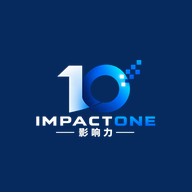
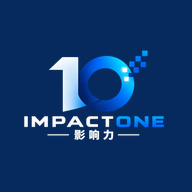
Add files via upload

Changed region(s): [[0.125, 0.25, 0.875, 0.75]]

diff --git a/daily/2026-08-19.html b/daily/2026-08-19.html
@@ -1,13 +1,13 @@
 <!doctype html><html lang="zh-CN"><head><meta charset="utf-8"><meta name="viewport" content="width=device-width,initial-scale=1"><title>影响力·每日必读｜2026年9月1日｜IMPACTONE</title><meta name="description" content="影响力·每日必读。筛选全球资讯，把握天下大势。每天5分钟，看懂真正重要的变化。"><link rel="canonical" href="https://www.impactone.news/daily/2026-08-19.html"><meta property="og:type" content="article"><meta property="og:site_name" content="IMPACTONE"><meta property="og:title" content="影响力·每日必读｜2026年9月1日"><meta property="og:description" content="筛选全球资讯，把握天下大势。每天5分钟，看懂真正重要的变化。"><meta property="og:url" content="https://www.impactone.news/daily/2026-08-19.html"><meta property="og:image" content="https://www.impactone.news/images/daily/2026-08-19-share.png"><meta property="og:image:secure_url" content="https://www.impactone.news/images/daily/2026-08-19-share.png"><meta property="og:image:type" content="image/png"><meta property="og:image:alt" content="影响力·每日必读｜2026年9月1日"><meta property="og:image:width" content="1200"><meta property="og:image:height" content="630"><meta name="twitter:card" content="summary_large_image"><meta name="twitter:title" content="影响力·每日必读｜2026年9月1日"><meta name="twitter:description" content="筛选全球资讯，把握天下大势。每天5分钟，看懂真正重要的变化。"><meta name="twitter:image" content="https://www.impactone.news/images/daily/2026-08-19-share.png"><link rel="manifest" href="../manifest.webmanifest"><meta name="theme-color" content="#062A5E"><meta name="apple-mobile-web-app-capable" content="yes"><meta name="apple-mobile-web-app-status-bar-style" content="default"><meta name="apple-mobile-web-app-title" content="每日必读"><link rel="apple-touch-icon" href="../images/brand/impactone-icon-192.png"><link rel="stylesheet" href="../daily-publication.css"><script src="../impactone-config.js" defer></script><script src="../daily-interactions.js" defer></script></head><body><main class="page"><div class="content">
-<header class="brand-block"><img class="header-impactone-logo" src="../images/brand/impactone-logo-original.png" alt="IMPACTONE 影响力"><h1 class="brand-title">影响力·每日必读</h1><p class="brand-subtitle">筛选全球资讯，把握天下大势。</p><div class="issue-date">2026年9月1日　纽约　第001期</div><div class="skyline skyline-original" aria-hidden="true"><img src="../images/daily/impactone-nyc-skyline-original.png" alt=""></div></header>
+<header class="brand-block"><div class="header-impactone-wordmark">IMPACTONE</div><h1 class="brand-title">影响力·每日必读</h1><p class="brand-subtitle">筛选全球资讯，把握天下大势。</p><div class="issue-date">2026年9月1日　纽约　第001期</div><div class="skyline skyline-original" aria-hidden="true"><img src="../images/daily/impactone-nyc-skyline-original.png" alt=""></div></header>
 <div class="font-tool" aria-label="字号设置">字号 <button data-font="small">小</button><button class="active" data-font="medium">中</button><button data-font="large">大</button></div>
-<section><header class="section-title"><span class="section-icon target"></span><h2>今日焦点 <span class="section-en">DAILY FOCUS</span></h2><div class="section-sub">4件事，看懂今天最重要的变化</div></header><article class="story"><div class="story-number">01｜</div><h3>美伊冲突伊朗，国际油价大涨</h3><p>9月1日，美军对伊朗目标发动新一轮打击；国际油价8月31日在美伊冲突进一步升级后大幅上涨。与此同时，美国8月就业与通胀数据继续成为市场关注重点，全球风险资产波动加大。</p><figure><img src="../images/daily/sample-oil-hd.jpg" alt="夕阳下的石油抽油机"/><figcaption>纽约本地媒体拍摄的石油设施（资料图）</figcaption></figure><p class="analysis"><span class="label">观察｜</span><br>如果这类冲突开始显著影响能源运输和企业成本，保险公司的定价逻辑可能需要重新评估——真正被改写的或许并不是短期油价，而是能源供应链本身的可控性。</p></article><article class="story"><div class="story-number">02｜</div><h3>美国国债收益率进一步走高，国债规模已突破40万亿美元</h3><p>美国10年期国债收益率9月1日盘中继续走高。与此同时，美国联邦债务规模继续处于历史高位，长期利率和财政可持续性再次成为市场讨论焦点。</p><p class="analysis"><span class="label">观察｜</span><br>40万亿美元的国债规模本身可能正在成为影响市场资本价格的结构性变量——不只是利率周期问题，也可能是期限溢价和风险定价问题。</p></article><article class="story"><div class="story-number">03｜</div><h3>中国8月官方PMI明升但仍处收缩区间，企业规模分化明显</h3><p>8月官方制造业PMI为49.8%，环比上月小幅改善，但仍低于50的荣枯线；大型企业PMI高于50，中小企业仍承压，市场对后续政策支持保持关注。</p><p class="analysis"><span class="label">观察｜</span><br>大企业已经回到扩张区间，中型企业仍在收缩——这种分化本身，可能比PMI总量数字更值得企业持续观察。</p></article></section>
+<section><header class="section-title"><span class="section-icon target"></span><h2>今日焦点 <span class="section-en">DAILY FOCUS</span></h2><div class="section-sub">4件事，看懂今天最重要的变化</div></header><article class="story"><div class="story-number">01｜</div><h3>美伊冲突伊朗，国际油价大涨</h3><p>9月1日，美军对伊朗目标发动新一轮打击；国际油价8月31日在美伊冲突进一步升级后大幅上涨。与此同时，美国8月就业与通胀数据继续成为市场关注重点，全球风险资产波动加大。</p><figure><img src="../images/daily/sample-oil-clear.png" alt="夕阳下的石油抽油机"/><figcaption>纽约本地媒体拍摄的石油设施（资料图）</figcaption></figure><p class="analysis"><span class="label">观察｜</span><br>如果这类冲突开始显著影响能源运输和企业成本，保险公司的定价逻辑可能需要重新评估——真正被改写的或许并不是短期油价，而是能源供应链本身的可控性。</p></article><article class="story"><div class="story-number">02｜</div><h3>美国国债收益率进一步走高，国债规模已突破40万亿美元</h3><p>美国10年期国债收益率9月1日盘中继续走高。与此同时，美国联邦债务规模继续处于历史高位，长期利率和财政可持续性再次成为市场讨论焦点。</p><p class="analysis"><span class="label">观察｜</span><br>40万亿美元的国债规模本身可能正在成为影响市场资本价格的结构性变量——不只是利率周期问题，也可能是期限溢价和风险定价问题。</p></article><article class="story"><div class="story-number">03｜</div><h3>中国8月官方PMI明升但仍处收缩区间，企业规模分化明显</h3><p>8月官方制造业PMI为49.8%，环比上月小幅改善，但仍低于50的荣枯线；大型企业PMI高于50，中小企业仍承压，市场对后续政策支持保持关注。</p><p class="analysis"><span class="label">观察｜</span><br>大企业已经回到扩张区间，中型企业仍在收缩——这种分化本身，可能比PMI总量数字更值得企业持续观察。</p></article></section>
 <section><header class="section-title"><span class="section-icon search"></span><h2>今日扫描 <span class="section-en">DAILY SCAN</span></h2><div class="section-sub">6个值得关注的信号</div></header><article class="scan-item"><div class="scan-number">05｜</div><h3>FTC联合22州起诉亚马逊，指控操纵广告拍卖</h3><details class="scan-details"><summary><span class="closed-label">展开正文 ＋</span><span class="open-label">收起正文 －</span></summary><div class="scan-body"><p>联邦贸易委员会及22个州近日联合起诉亚马逊，指控其通过广告拍卖和平台规则影响商家成本。</p></div></details><p class="scan-quick"><span class="label">快评｜</span><br>审查逻辑一旦从“亚马逊多收了钱”转向“拍卖机制本身是否被操纵”，所有采用类似定价机制的平台都可能被拖下水。</p></article><article class="scan-item"><div class="scan-number">06｜</div><h3>美国科技平台监管继续升级</h3><details class="scan-details"><summary><span class="closed-label">展开正文 ＋</span><span class="open-label">收起正文 －</span></summary><div class="scan-body"><p>美国监管机构继续扩大对大型科技平台广告、数据与市场竞争行为的审查，平台商业模式面临更高合规成本。</p></div></details><p class="scan-quick"><span class="label">快评｜</span><br>监管的重点正在从单一行为转向平台规则本身，商业模式的合规成本可能长期上升。</p></article><article class="scan-item"><div class="scan-number">07｜</div><h3>全球平台广告定价机制受到更多关注</h3><details class="scan-details"><summary><span class="closed-label">展开正文 ＋</span><span class="open-label">收起正文 －</span></summary><div class="scan-body"><p>围绕数字广告拍卖透明度、平台自营业务与商家权益的讨论继续升温，监管部门正在评估更严格的规则。</p></div></details><p class="scan-quick"><span class="label">快评｜</span><br>一旦监管开始触及“平台如何决定价格”，平台经济的利润结构可能发生变化。</p></article></section>
 <section><header class="view-section-title"><span class="view-cn">今日洞见</span><span class="view-en">IMPACTONE VIEW</span></header><div class="daily-view"><h2 class="view-title">风险正在被重新定价</h2><p>霍尔木兹海峡、美债收益率、港口拥堵与旧金山楼市，表面分属能源、金融、供应链与资产市场，背后却呈现出同一趋势：过去容易被忽略的隐性成本，正在进入价格体系。</p><p>航运风险可能进入保险与运费，美债规模可能通过收益率传导至融资成本，港口延误最终体现为库存与交付成本。</p><p class="view-final">值得关注的并非价格本身的上涨，而是风险、时间与预期正在被重新定价。</p></div></section>
 <div class="product-value"><strong>每天5分钟，读懂12条全球大事，看清变化背后的趋势。</strong><span>《影响力·每日必读》每日更新 · 订阅持续获取</span></div>
-<footer class="publication-footer"><div class="footer-brands"><div class="footer-brand"><img class="footer-logo impactone-logo" src="../images/brand/impactone-logo.png" alt="IMPACTONE 影响力 Logo"><b>出品｜IMPACTONE</b></div><div class="foundation"><img class="footer-logo faef-logo" src="../images/brand/faef-logo.png" alt="五大道企业家基金会 FAEF Logo"><b>协办｜五大道企业家基金会</b></div></div><div class="share-line">把值得关注的事，转给值得的人。</div><div class="footer-info"><b>联络交流</b><span>内容建议｜采访线索｜品牌合作｜战略合作</span><a href="mailto:impactoneus@gmail.com">impactoneus@gmail.com</a><div class="social-profiles" id="socialProfiles" aria-label="IMPACTONE 社交媒体"></div></div><div class="legal"><b>免责声明</b><p>本刊由 IMPACTONE 独立策划、制作与运营。内容基于公开信息整理与分析，文中“观察”“快评”及“今日洞见”为 IMPACTONE 编辑观点，仅供参考，不构成投资、法律或财务建议。</p><b>版权声明</b><p>© 2026 IMPACTONE. All Rights Reserved. 本刊原创编辑内容及版式设计版权归 IMPACTONE 所有。未经授权，不得复制、汇编、转载或用于商业用途；欢迎个人完整转发分享，并请保留 IMPACTONE 标识及来源信息。</p></div></footer>
+<footer class="publication-footer"><div class="footer-brands"><div class="footer-brand"><img class="footer-logo impactone-logo" src="../images/brand/impactone-logo-official.png" alt="IMPACTONE 影响力 Logo"><b>出品｜IMPACTONE</b></div><div class="foundation"><img class="footer-logo faef-logo" src="../images/brand/faef-logo.png" alt="五大道企业家基金会 FAEF Logo"><b>协办｜五大道企业家基金会</b></div></div><div class="share-line">把值得关注的事，转给值得的人。</div><div class="footer-info"><b>联络交流</b><span>内容建议｜采访线索｜品牌合作｜战略合作</span><a href="mailto:impactoneus@gmail.com">impactoneus@gmail.com</a><div class="social-profiles" id="socialProfiles" aria-label="IMPACTONE 社交媒体"></div></div><div class="legal"><b>免责声明</b><p>本刊由 IMPACTONE 独立策划、制作与运营。内容基于公开信息整理与分析，文中“观察”“快评”及“今日洞见”为 IMPACTONE 编辑观点，仅供参考，不构成投资、法律或财务建议。</p><b>版权声明</b><p>© 2026 IMPACTONE. All Rights Reserved. 本刊原创编辑内容及版式设计版权归 IMPACTONE 所有。未经授权，不得复制、汇编、转载或用于商业用途；欢迎个人完整转发分享，并请保留 IMPACTONE 标识及来源信息。</p></div></footer>
 </div></main>
-<nav class="fixed-actions" aria-label="互动功能"><button id="subscribeAction"><span class="ico">＋</span><span>订阅</span></button><button id="shareAction"><span class="ico"><svg viewBox="0 0 24 24"><path d="M7 17c0-5 3-8 9-8h2"></path><path d="m14 5 4 4-4 4"></path></svg></span><span>转发</span></button><button id="favoriteAction"><span class="ico"><svg viewBox="0 0 24 24"><path d="M20.8 4.6a5.5 5.5 0 0 0-7.8 0L12 5.7l-1.1-1.1a5.5 5.5 0 0 0-7.8 7.8L12 21l8.8-8.6a5.5 5.5 0 0 0 0-7.8Z"></path></svg></span><span>收藏</span></button><button id="commentAction"><span class="ico">□</span><span>评论</span><small id="commentCount"></small></button></nav>
+<div class="notification-optin" id="notificationOptin" hidden><div><strong>接收《每日必读》更新通知</strong><span>新一期发布时，由 IMPACTONE 提醒你。</span></div><button type="button" id="enableNotificationButton">开启</button><button type="button" class="notification-optin-close" id="dismissNotificationButton" aria-label="稍后">×</button></div><nav class="fixed-actions" aria-label="互动功能"><button id="subscribeAction"><span class="ico">＋</span><span>订阅</span></button><button id="shareAction"><span class="ico"><svg viewBox="0 0 24 24"><path d="M7 17c0-5 3-8 9-8h2"></path><path d="m14 5 4 4-4 4"></path></svg></span><span>转发</span></button><button id="favoriteAction"><span class="ico"><svg viewBox="0 0 24 24"><path d="M20.8 4.6a5.5 5.5 0 0 0-7.8 0L12 5.7l-1.1-1.1a5.5 5.5 0 0 0-7.8 7.8L12 21l8.8-8.6a5.5 5.5 0 0 0 0-7.8Z"></path></svg></span><span>收藏</span></button><button id="commentAction"><span class="ico">□</span><span>评论</span><small id="commentCount"></small></button></nav>
 <div class="modal-backdrop" id="shareModal" aria-hidden="true"><section class="share-modal"><button class="modal-close" data-close-share>×</button><h3>转发《影响力·每日必读》</h3><p>选择你常用的平台。微信与“更多”使用手机系统分享；其它平台尽量直接进入对应分享/发布流程。</p><div class="share-grid share-grid-v311"><button type="button" data-share="wechat">微信</button><a data-share-link="whatsapp" target="_blank" rel="noopener">WhatsApp</a><button type="button" data-share="instagram">Instagram 发布</button><button type="button" data-share="facebook-native">Facebook</button><a data-share-link="linkedin" target="_blank" rel="noopener">LinkedIn</a><button type="button" data-share="xiaohongshu">小红书发布</button><button type="button" data-share="copy">复制链接</button><button type="button" data-share="system">更多</button></div><div class="wechat-share-hint" id="wechatShareHint" aria-live="polite"></div></section></div>
 <div class="modal-backdrop" id="subscribeModal" aria-hidden="true"><section class="subscribe-modal subscribe-modal-v313"><button class="modal-close" data-close-subscribe>×</button><h3>订阅《影响力·每日必读》</h3><p>先把 IMPACTONE 添加到手机桌面；安装后允许通知，即可在《每日必读》更新时收到提醒。</p><button type="button" class="install-primary" id="installAppButton">＋ 添加到手机桌面</button><div class="install-help" id="installHelp" aria-live="polite"></div><div class="install-platform-guide" aria-label="iPhone 与 Android 安装方法"><div class="install-platform-card"><strong>iPhone / iPad</strong><span>Safari → 分享 → 添加到主屏幕 → 添加。随后从桌面打开 IMPACTONE，点“订阅”允许通知。</span></div><div class="install-platform-card"><strong>Android</strong><span>Chrome → 右上角 ⋮ → 添加到主屏幕 / 安装应用 → 安装。安装后按系统提示允许通知。</span></div></div><a class="install-guide-link" href="/docs/impactone-add-to-home-screen-guide.pdf" target="_blank" rel="noopener">查看图文安装说明（iPhone + Android）</a><button type="button" class="email-backup-toggle" data-toggle-email>邮件订阅（备用）</button><form id="subscribeForm" class="email-subscribe-form" hidden><input id="subscribeEmail" type="email" placeholder="你的邮箱" required><button type="submit">邮件订阅</button></form><div id="subscribeStatus" class="subscribe-status"></div></section></div>
 <section class="comments-panel" id="commentsPanel" aria-hidden="true"><button class="panel-close" data-close-comments>×</button><h3 class="panel-head">评论</h3><p class="comment-prompt">你今天最关注哪一条？</p><form id="commentForm"><input id="commentName" placeholder="昵称" required><textarea id="commentText" placeholder="写下你的看法……" required></textarea><button type="submit">发布</button></form><div id="commentList"></div></section>

diff --git a/daily-template.html b/daily-template.html
@@ -1,13 +1,13 @@
 <!doctype html><html lang="zh-CN"><head><meta charset="utf-8"><meta name="viewport" content="width=device-width,initial-scale=1"><meta property="og:type" content="article"><meta property="og:site_name" content="IMPACTONE"><meta property="og:title" content="影响力·每日必读"><meta property="og:description" content="筛选全球资讯，把握天下大势。每天5分钟，看懂真正重要的变化。"><meta property="og:image" content="https://www.impactone.news/images/daily/2026-08-19-share.png"><meta property="og:image:secure_url" content="https://www.impactone.news/images/daily/2026-08-19-share.png"><meta property="og:image:type" content="image/png"><meta property="og:image:alt" content="影响力·每日必读｜2026年9月1日"><meta name="twitter:card" content="summary_large_image"><title>影响力·每日必读｜IMPACTONE</title><meta name="description" content="影响力·每日必读。筛选全球资讯，把握天下大势。"><link rel="manifest" href="manifest.webmanifest"><meta name="theme-color" content="#062A5E"><meta name="apple-mobile-web-app-capable" content="yes"><meta name="apple-mobile-web-app-status-bar-style" content="default"><meta name="apple-mobile-web-app-title" content="每日必读"><link rel="apple-touch-icon" href="images/brand/impactone-icon-192.png"><link rel="stylesheet" href="daily-publication.css"><script src="impactone-config.js" defer></script><script src="daily-interactions.js" defer></script></head><body><main class="page"><div class="content">
-<header class="brand-block"><img class="header-impactone-logo" src="images/brand/impactone-logo-original.png" alt="IMPACTONE 影响力"><h1 class="brand-title">影响力·每日必读</h1><p class="brand-subtitle">筛选全球资讯，把握天下大势。</p><div class="issue-date">2026年9月1日　纽约　第001期</div><div class="skyline skyline-original" aria-hidden="true"><img src="images/daily/impactone-nyc-skyline-original.png" alt=""></div></header>
+<header class="brand-block"><div class="header-impactone-wordmark">IMPACTONE</div><h1 class="brand-title">影响力·每日必读</h1><p class="brand-subtitle">筛选全球资讯，把握天下大势。</p><div class="issue-date">2026年9月1日　纽约　第001期</div><div class="skyline skyline-original" aria-hidden="true"><img src="images/daily/impactone-nyc-skyline-original.png" alt=""></div></header>
 <div class="font-tool" aria-label="字号设置">字号 <button data-font="small">小</button><button class="active" data-font="medium">中</button><button data-font="large">大</button></div>
-<section><header class="section-title"><span class="section-icon target"></span><h2>今日焦点 <span class="section-en">DAILY FOCUS</span></h2><div class="section-sub">4件事，看懂今天最重要的变化</div></header><article class="story"><div class="story-number">01｜</div><h3>美伊冲突伊朗，国际油价大涨</h3><p>9月1日，美军对伊朗目标发动新一轮打击；国际油价8月31日在美伊冲突进一步升级后大幅上涨。与此同时，美国8月就业与通胀数据继续成为市场关注重点，全球风险资产波动加大。</p><figure><img src="images/daily/sample-oil-hd.jpg" alt="夕阳下的石油抽油机"/><figcaption>纽约本地媒体拍摄的石油设施（资料图）</figcaption></figure><p class="analysis"><span class="label">观察｜</span><br>如果这类冲突开始显著影响能源运输和企业成本，保险公司的定价逻辑可能需要重新评估——真正被改写的或许并不是短期油价，而是能源供应链本身的可控性。</p></article><article class="story"><div class="story-number">02｜</div><h3>美国国债收益率进一步走高，国债规模已突破40万亿美元</h3><p>美国10年期国债收益率9月1日盘中继续走高。与此同时，美国联邦债务规模继续处于历史高位，长期利率和财政可持续性再次成为市场讨论焦点。</p><p class="analysis"><span class="label">观察｜</span><br>40万亿美元的国债规模本身可能正在成为影响市场资本价格的结构性变量——不只是利率周期问题，也可能是期限溢价和风险定价问题。</p></article><article class="story"><div class="story-number">03｜</div><h3>中国8月官方PMI明升但仍处收缩区间，企业规模分化明显</h3><p>8月官方制造业PMI为49.8%，环比上月小幅改善，但仍低于50的荣枯线；大型企业PMI高于50，中小企业仍承压，市场对后续政策支持保持关注。</p><p class="analysis"><span class="label">观察｜</span><br>大企业已经回到扩张区间，中型企业仍在收缩——这种分化本身，可能比PMI总量数字更值得企业持续观察。</p></article></section>
+<section><header class="section-title"><span class="section-icon target"></span><h2>今日焦点 <span class="section-en">DAILY FOCUS</span></h2><div class="section-sub">4件事，看懂今天最重要的变化</div></header><article class="story"><div class="story-number">01｜</div><h3>美伊冲突伊朗，国际油价大涨</h3><p>9月1日，美军对伊朗目标发动新一轮打击；国际油价8月31日在美伊冲突进一步升级后大幅上涨。与此同时，美国8月就业与通胀数据继续成为市场关注重点，全球风险资产波动加大。</p><figure><img src="images/daily/sample-oil-clear.png" alt="夕阳下的石油抽油机"/><figcaption>纽约本地媒体拍摄的石油设施（资料图）</figcaption></figure><p class="analysis"><span class="label">观察｜</span><br>如果这类冲突开始显著影响能源运输和企业成本，保险公司的定价逻辑可能需要重新评估——真正被改写的或许并不是短期油价，而是能源供应链本身的可控性。</p></article><article class="story"><div class="story-number">02｜</div><h3>美国国债收益率进一步走高，国债规模已突破40万亿美元</h3><p>美国10年期国债收益率9月1日盘中继续走高。与此同时，美国联邦债务规模继续处于历史高位，长期利率和财政可持续性再次成为市场讨论焦点。</p><p class="analysis"><span class="label">观察｜</span><br>40万亿美元的国债规模本身可能正在成为影响市场资本价格的结构性变量——不只是利率周期问题，也可能是期限溢价和风险定价问题。</p></article><article class="story"><div class="story-number">03｜</div><h3>中国8月官方PMI明升但仍处收缩区间，企业规模分化明显</h3><p>8月官方制造业PMI为49.8%，环比上月小幅改善，但仍低于50的荣枯线；大型企业PMI高于50，中小企业仍承压，市场对后续政策支持保持关注。</p><p class="analysis"><span class="label">观察｜</span><br>大企业已经回到扩张区间，中型企业仍在收缩——这种分化本身，可能比PMI总量数字更值得企业持续观察。</p></article></section>
 <section><header class="section-title"><span class="section-icon search"></span><h2>今日扫描 <span class="section-en">DAILY SCAN</span></h2><div class="section-sub">6个值得关注的信号</div></header><article class="scan-item"><div class="scan-number">05｜</div><h3>FTC联合22州起诉亚马逊，指控操纵广告拍卖</h3><details class="scan-details"><summary><span class="closed-label">展开正文 ＋</span><span class="open-label">收起正文 －</span></summary><div class="scan-body"><p>联邦贸易委员会及22个州近日联合起诉亚马逊，指控其通过广告拍卖和平台规则影响商家成本。</p></div></details><p class="scan-quick"><span class="label">快评｜</span><br>审查逻辑一旦从“亚马逊多收了钱”转向“拍卖机制本身是否被操纵”，所有采用类似定价机制的平台都可能被拖下水。</p></article><article class="scan-item"><div class="scan-number">06｜</div><h3>美国科技平台监管继续升级</h3><details class="scan-details"><summary><span class="closed-label">展开正文 ＋</span><span class="open-label">收起正文 －</span></summary><div class="scan-body"><p>美国监管机构继续扩大对大型科技平台广告、数据与市场竞争行为的审查，平台商业模式面临更高合规成本。</p></div></details><p class="scan-quick"><span class="label">快评｜</span><br>监管的重点正在从单一行为转向平台规则本身，商业模式的合规成本可能长期上升。</p></article><article class="scan-item"><div class="scan-number">07｜</div><h3>全球平台广告定价机制受到更多关注</h3><details class="scan-details"><summary><span class="closed-label">展开正文 ＋</span><span class="open-label">收起正文 －</span></summary><div class="scan-body"><p>围绕数字广告拍卖透明度、平台自营业务与商家权益的讨论继续升温，监管部门正在评估更严格的规则。</p></div></details><p class="scan-quick"><span class="label">快评｜</span><br>一旦监管开始触及“平台如何决定价格”，平台经济的利润结构可能发生变化。</p></article></section>
 <section><header class="view-section-title"><span class="view-cn">今日洞见</span><span class="view-en">IMPACTONE VIEW</span></header><div class="daily-view"><h2 class="view-title">风险正在被重新定价</h2><p>霍尔木兹海峡、美债收益率、港口拥堵与旧金山楼市，表面分属能源、金融、供应链与资产市场，背后却呈现出同一趋势：过去容易被忽略的隐性成本，正在进入价格体系。</p><p>航运风险可能进入保险与运费，美债规模可能通过收益率传导至融资成本，港口延误最终体现为库存与交付成本。</p><p class="view-final">值得关注的并非价格本身的上涨，而是风险、时间与预期正在被重新定价。</p></div></section>
 <div class="product-value"><strong>每天5分钟，读懂12条全球大事，看清变化背后的趋势。</strong><span>《影响力·每日必读》每日更新 · 订阅持续获取</span></div>
-<footer class="publication-footer"><div class="footer-brands"><div class="footer-brand"><img class="footer-logo impactone-logo" src="images/brand/impactone-logo.png" alt="IMPACTONE 影响力 Logo"><b>出品｜IMPACTONE</b></div><div class="foundation"><img class="footer-logo faef-logo" src="images/brand/faef-logo.png" alt="五大道企业家基金会 FAEF Logo"><b>协办｜五大道企业家基金会</b></div></div><div class="share-line">把值得关注的事，转给值得的人。</div><div class="footer-info"><b>联络交流</b><span>内容建议｜采访线索｜品牌合作｜战略合作</span><a href="mailto:impactoneus@gmail.com">impactoneus@gmail.com</a><div class="social-profiles" id="socialProfiles" aria-label="IMPACTONE 社交媒体"></div></div><div class="legal"><b>免责声明</b><p>本刊由 IMPACTONE 独立策划、制作与运营。内容基于公开信息整理与分析，文中“观察”“快评”及“今日洞见”为 IMPACTONE 编辑观点，仅供参考，不构成投资、法律或财务建议。</p><b>版权声明</b><p>© 2026 IMPACTONE. All Rights Reserved. 本刊原创编辑内容及版式设计版权归 IMPACTONE 所有。未经授权，不得复制、汇编、转载或用于商业用途；欢迎个人完整转发分享，并请保留 IMPACTONE 标识及来源信息。</p></div></footer>
+<footer class="publication-footer"><div class="footer-brands"><div class="footer-brand"><img class="footer-logo impactone-logo" src="images/brand/impactone-logo-official.png" alt="IMPACTONE 影响力 Logo"><b>出品｜IMPACTONE</b></div><div class="foundation"><img class="footer-logo faef-logo" src="images/brand/faef-logo.png" alt="五大道企业家基金会 FAEF Logo"><b>协办｜五大道企业家基金会</b></div></div><div class="share-line">把值得关注的事，转给值得的人。</div><div class="footer-info"><b>联络交流</b><span>内容建议｜采访线索｜品牌合作｜战略合作</span><a href="mailto:impactoneus@gmail.com">impactoneus@gmail.com</a><div class="social-profiles" id="socialProfiles" aria-label="IMPACTONE 社交媒体"></div></div><div class="legal"><b>免责声明</b><p>本刊由 IMPACTONE 独立策划、制作与运营。内容基于公开信息整理与分析，文中“观察”“快评”及“今日洞见”为 IMPACTONE 编辑观点，仅供参考，不构成投资、法律或财务建议。</p><b>版权声明</b><p>© 2026 IMPACTONE. All Rights Reserved. 本刊原创编辑内容及版式设计版权归 IMPACTONE 所有。未经授权，不得复制、汇编、转载或用于商业用途；欢迎个人完整转发分享，并请保留 IMPACTONE 标识及来源信息。</p></div></footer>
 </div></main>
-<nav class="fixed-actions" aria-label="互动功能"><button id="subscribeAction"><span class="ico">＋</span><span>订阅</span></button><button id="shareAction"><span class="ico"><svg viewBox="0 0 24 24"><path d="M7 17c0-5 3-8 9-8h2"></path><path d="m14 5 4 4-4 4"></path></svg></span><span>转发</span></button><button id="favoriteAction"><span class="ico"><svg viewBox="0 0 24 24"><path d="M20.8 4.6a5.5 5.5 0 0 0-7.8 0L12 5.7l-1.1-1.1a5.5 5.5 0 0 0-7.8 7.8L12 21l8.8-8.6a5.5 5.5 0 0 0 0-7.8Z"></path></svg></span><span>收藏</span></button><button id="commentAction"><span class="ico">□</span><span>评论</span><small id="commentCount"></small></button></nav>
+<div class="notification-optin" id="notificationOptin" hidden><div><strong>接收《每日必读》更新通知</strong><span>新一期发布时，由 IMPACTONE 提醒你。</span></div><button type="button" id="enableNotificationButton">开启</button><button type="button" class="notification-optin-close" id="dismissNotificationButton" aria-label="稍后">×</button></div><nav class="fixed-actions" aria-label="互动功能"><button id="subscribeAction"><span class="ico">＋</span><span>订阅</span></button><button id="shareAction"><span class="ico"><svg viewBox="0 0 24 24"><path d="M7 17c0-5 3-8 9-8h2"></path><path d="m14 5 4 4-4 4"></path></svg></span><span>转发</span></button><button id="favoriteAction"><span class="ico"><svg viewBox="0 0 24 24"><path d="M20.8 4.6a5.5 5.5 0 0 0-7.8 0L12 5.7l-1.1-1.1a5.5 5.5 0 0 0-7.8 7.8L12 21l8.8-8.6a5.5 5.5 0 0 0 0-7.8Z"></path></svg></span><span>收藏</span></button><button id="commentAction"><span class="ico">□</span><span>评论</span><small id="commentCount"></small></button></nav>
 <div class="modal-backdrop" id="shareModal" aria-hidden="true"><section class="share-modal"><button class="modal-close" data-close-share>×</button><h3>转发《影响力·每日必读》</h3><p>选择你常用的平台。微信与“更多”使用手机系统分享；其它平台尽量直接进入对应分享/发布流程。</p><div class="share-grid share-grid-v311"><button type="button" data-share="wechat">微信</button><a data-share-link="whatsapp" target="_blank" rel="noopener">WhatsApp</a><button type="button" data-share="instagram">Instagram 发布</button><button type="button" data-share="facebook-native">Facebook</button><a data-share-link="linkedin" target="_blank" rel="noopener">LinkedIn</a><button type="button" data-share="xiaohongshu">小红书发布</button><button type="button" data-share="copy">复制链接</button><button type="button" data-share="system">更多</button></div><div class="wechat-share-hint" id="wechatShareHint" aria-live="polite"></div></section></div>
 <div class="modal-backdrop" id="subscribeModal" aria-hidden="true"><section class="subscribe-modal subscribe-modal-v313"><button class="modal-close" data-close-subscribe>×</button><h3>订阅《影响力·每日必读》</h3><p>先把 IMPACTONE 添加到手机桌面；安装后允许通知，即可在《每日必读》更新时收到提醒。</p><button type="button" class="install-primary" id="installAppButton">＋ 添加到手机桌面</button><div class="install-help" id="installHelp" aria-live="polite"></div><div class="install-platform-guide" aria-label="iPhone 与 Android 安装方法"><div class="install-platform-card"><strong>iPhone / iPad</strong><span>Safari → 分享 → 添加到主屏幕 → 添加。随后从桌面打开 IMPACTONE，点“订阅”允许通知。</span></div><div class="install-platform-card"><strong>Android</strong><span>Chrome → 右上角 ⋮ → 添加到主屏幕 / 安装应用 → 安装。安装后按系统提示允许通知。</span></div></div><a class="install-guide-link" href="/docs/impactone-add-to-home-screen-guide.pdf" target="_blank" rel="noopener">查看图文安装说明（iPhone + Android）</a><button type="button" class="email-backup-toggle" data-toggle-email>邮件订阅（备用）</button><form id="subscribeForm" class="email-subscribe-form" hidden><input id="subscribeEmail" type="email" placeholder="你的邮箱" required><button type="submit">邮件订阅</button></form><div id="subscribeStatus" class="subscribe-status"></div></section></div>
 <section class="comments-panel" id="commentsPanel" aria-hidden="true"><button class="panel-close" data-close-comments>×</button><h3 class="panel-head">评论</h3><p class="comment-prompt">你今天最关注哪一条？</p><form id="commentForm"><input id="commentName" placeholder="昵称" required><textarea id="commentText" placeholder="写下你的看法……" required></textarea><button type="submit">发布</button></form><div id="commentList"></div></section>

diff --git a/daily-publication.css b/daily-publication.css
@@ -253,3 +253,22 @@ html,body{overflow-x:hidden}
 .subscribe-modal-v313 .install-platform-guide{display:grid!important;grid-template-columns:1fr 1fr!important;gap:10px!important}
 .subscribe-modal-v313 .install-platform-card{display:block!important}
 @media(max-width:600px){.subscribe-modal-v313 .install-platform-guide{grid-template-columns:1fr!important}}
+
+/* V3.14 — approved header wordmark, official footer logo, first-open notification prompt */
+.brand-block .header-impactone-wordmark{
+  position:absolute;left:40px;top:34px;z-index:3;color:#fff;
+  font-family:Arial,Helvetica,sans-serif;font-size:15px;font-weight:400;
+  letter-spacing:.22em;line-height:1;white-space:nowrap;
+}
+.publication-footer .impactone-logo{width:min(260px,72%);height:auto;max-height:none;object-fit:contain;background:transparent!important}
+.story figure img[src*="sample-oil-clear"]{width:100%;height:auto;display:block;object-fit:contain;image-rendering:auto}
+.notification-optin{position:fixed;left:50%;bottom:78px;transform:translateX(-50%);z-index:1200;width:min(92vw,620px);background:#f7f4ee;border-top:3px solid #c8a84b;box-shadow:0 8px 28px rgba(0,0,0,.24);padding:15px 82px 15px 18px;color:#062a5e}
+.notification-optin:not([hidden]){display:block}
+.notification-optin strong,.notification-optin span{display:block}.notification-optin strong{font-size:16px;margin-bottom:3px}.notification-optin span{font-size:13px;color:#555}
+.notification-optin #enableNotificationButton{position:absolute;right:38px;top:50%;transform:translateY(-50%);border:0;background:#062a5e;color:#fff;padding:9px 13px;font-weight:700;cursor:pointer}
+.notification-optin-close{position:absolute;right:8px;top:7px;border:0;background:transparent;color:#777;font-size:20px;cursor:pointer}
+@media(max-width:640px){
+ .brand-block .header-impactone-wordmark{left:18px;top:25px;font-size:12px;letter-spacing:.2em}
+ .notification-optin{bottom:76px;width:calc(100% - 24px);padding:13px 78px 13px 14px}
+ .notification-optin strong{font-size:14px}.notification-optin span{font-size:12px}
+}

diff --git a/daily-interactions.js b/daily-interactions.js
@@ -155,6 +155,28 @@
 
   renderSubscribed();renderInstallState();getSWRegistration();
 
+  // V3.14: when the installed PWA is opened from the Home Screen for the first time,
+  // show a small in-app prompt. The system permission dialog is only requested after the user taps “开启”.
+  const notificationOptin=$('#notificationOptin');
+  const enableNotificationButton=$('#enableNotificationButton');
+  const dismissNotificationButton=$('#dismissNotificationButton');
+  function renderNotificationOptin(){
+    if(!notificationOptin)return;
+    const dismissed=storage.get('impactone_notification_prompt_dismissed',false);
+    const shouldShow=standaloneNow()&&notificationsSupported()&&Notification.permission==='default'&&!dismissed;
+    notificationOptin.hidden=!shouldShow;
+  }
+  if(standaloneNow())setTimeout(renderNotificationOptin,650);
+  enableNotificationButton?.addEventListener('click',async()=>{
+    notificationOptin.hidden=true;
+    await requestDailyNotifications();
+    renderNotificationOptin();
+  });
+  dismissNotificationButton?.addEventListener('click',()=>{
+    storage.set('impactone_notification_prompt_dismissed',true);
+    notificationOptin.hidden=true;
+  });
+
   subAction?.addEventListener('click',async()=>{
     // Once opened from the Home Screen, the same “订阅” button becomes the notification permission action.
     if(standaloneNow()&&notificationsSupported()&&Notification.permission==='default'){

diff --git a/service-worker.js b/service-worker.js
@@ -1,4 +1,4 @@
-const CACHE='impactone-daily-v313';
+const CACHE='impactone-daily-v314';
 const STATIC=[
   '/daily-publication.css','/daily-interactions.js','/impactone-config.js','/manifest.webmanifest',
   '/images/brand/impactone-icon-192.png','/images/brand/impactone-icon-512.png',

diff --git a/README-V3.14.md b/README-V3.14.md
@@ -1,0 +1,13 @@
+# IMPACTONE V3.14
+
+本版基于 V3.13，仅更新本轮确认项目：
+
+1. 页头移除图形 Logo，恢复为样本中的纯文字 `IMPACTONE`。
+2. 页脚“出品｜IMPACTONE”上方 Logo 更换为本轮上传的官方 Logo 原图。
+3. 第一条焦点新闻油井图片更换为本轮上传的高清原图，不再使用旧放大版本。
+4. PWA 桌面图标重新由官方 Logo 原图生成 192/512 图标。
+5. iPhone/Android 安装到桌面后，从桌面图标首次打开时，如果通知权限仍为 default，会显示站内提示“接收《每日必读》更新通知 / 开启”。只有用户点“开启”后才调用系统通知授权框，符合浏览器权限规则。
+6. 用户点 × 可暂时关闭站内通知提示；系统通知被允许或拒绝后不再重复弹该站内提示。
+7. Service Worker 缓存版本升级，避免手机继续读取 V3.13 旧资源。
+
+注意：当前已经完成通知授权和 Push Subscription 前端接口，但真正的“每天发布后自动推送”仍需要后端 VAPID/Push endpoint 接入。
